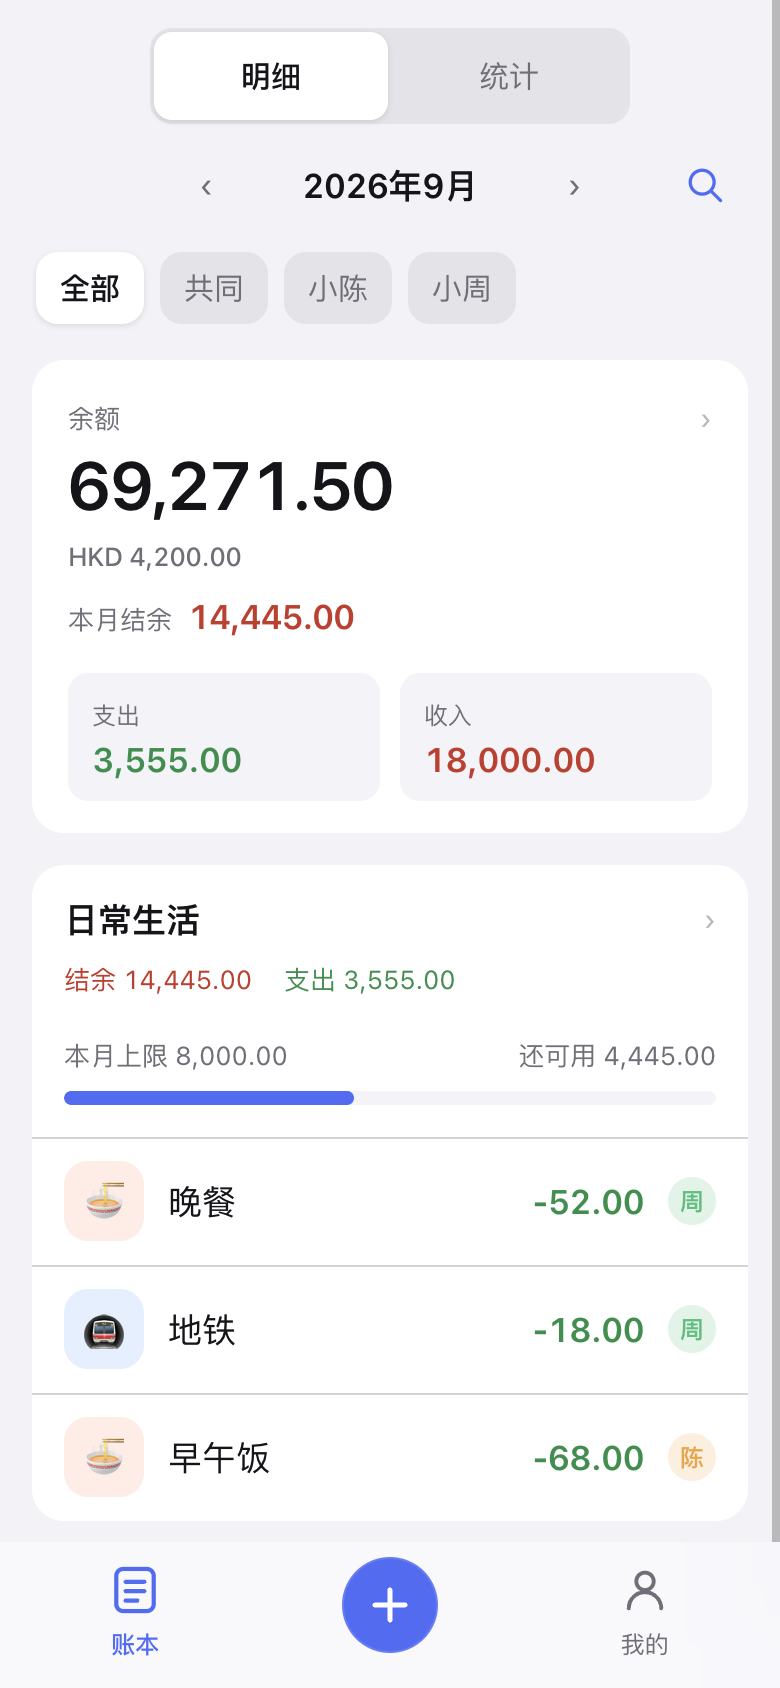
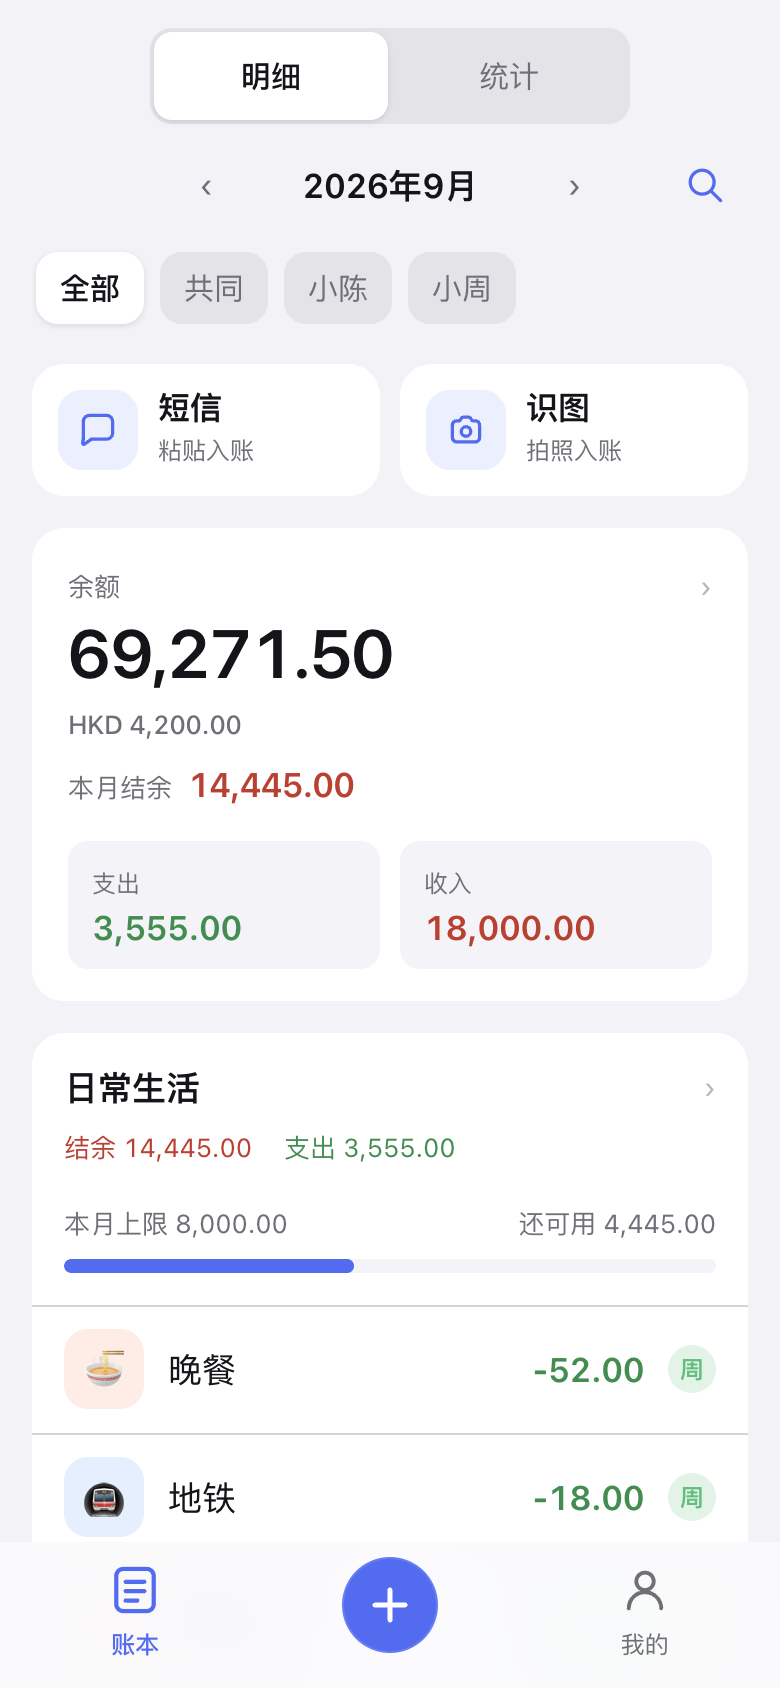
Rewrite the README as a page-by-page tour with add-to-home-screen.

diff --git a/README.md b/README.md
@@ -1,90 +1,94 @@
 # 记账
 
-- 多用户：一家人共用一份账目，每笔能看出是谁记的，也可以标成共同账。管理员负责成员和密码。
+一家人一本账。多用户、分类和活动都能改，银行卡按币种记，短信或照片也能自动入账。
+
+- 多用户：每笔能看出是谁记的，也可以记入共同账。管理员管成员和密码。
 - 灵活分类：分类可改图标、颜色、归档和顺序；支出和收入挂在活动上。
-- 支持多国银行卡：银行卡按币种记余额，支持银联、Visa、Mastercard、运通。
+- 支持多国银行卡：按币种记余额，银联、Visa、Mastercard、运通都能用。
+- AI 自动识别：粘贴银行短信或拍一张单，自动填好金额和分类。
 
-一个 Go 静态二进制，自带网页和 SQLite，监听一个端口就能跑。界面按手机浏览器设计，也可以加到主屏。页面不加载任何外部资源；不配置识别密钥时，完全离线也能用。
+界面按手机设计。页面不加载任何外部资源；不配识别密钥时，完全离线也能用。
 
-<p align="center">
-  <img src="docs/screenshots/ledger.png" alt="账本" width="46%">
-  <img src="docs/screenshots/stats.png" alt="统计" width="46%">
-</p>
-<p align="center">
-  <img src="docs/screenshots/entry.png" alt="记一笔" width="46%">
-  <img src="docs/screenshots/settings.png" alt="我的" width="46%">
-</p>
+## 界面
 
-## 本地运行
+账本首页是余额和这个月的活动。配了识别密钥后，上面还会出现短信和识图。
 
-需要 Go 1.27 以上。
+<p align="center"><img src="docs/screenshots/ledger.png" alt="账本" width="320"></p>
+
+银行短信可以贴进来自动入账，也可以拍照识图。
+
+<p align="center"><img src="docs/screenshots/sms.png" alt="短信识别" width="320"></p>
+
+点开余额，按币种看每张卡还剩多少。
+
+<p align="center"><img src="docs/screenshots/balances.png" alt="余额" width="320"></p>
+
+点开活动，能看结余、上限和最近几笔，点进去就能改。
+
+<p align="center"><img src="docs/screenshots/activity.png" alt="活动详情" width="320"></p>
+
+右上角可以按备注搜索全部时间的账。
+
+<p align="center"><img src="docs/screenshots/search.png" alt="搜索" width="320"></p>
+
+统计按账本、活动和时间筛选，有分类环和银行汇总。
+
+<p align="center"><img src="docs/screenshots/stats.png" alt="统计" width="320"></p>
+
+记一笔用自定义数字键盘。支出和收入挂活动，转账和兑换不算收支。
+
+<p align="center"><img src="docs/screenshots/entry.png" alt="记一笔" width="320"></p>
+
+「我的」里管自己、家庭成员，以及分类、银行卡和活动。
+
+<p align="center"><img src="docs/screenshots/settings.png" alt="我的" width="320"></p>
+
+分类可以改图标和颜色，也能拖顺序。
+
+<p align="center"><img src="docs/screenshots/categories.png" alt="分类管理" width="320"></p>
+
+银行卡按币种记余额。
+
+<p align="center"><img src="docs/screenshots/cards.png" alt="银行卡" width="320"></p>
+
+活动可以设每月上限和整个活动的上限。上限看全家支出，不按账本拆分。
+
+<p align="center"><img src="docs/screenshots/activities.png" alt="活动" width="320"></p>
+
+## 使用
+
+本机需要 Go 1.27。
 
 ```
-make demo         # 写入两名演示成员和几个月的模拟账单，然后启动
-make test         # go vet + go test
-make build-linux  # 交叉编译出 dist/ledger-linux-amd64
+make demo
 ```
 
-演示账本的登录是 `小陈` / `demodemo`，另一位成员是 `小周` / `demodemo`。空库启动用 `make run`，会按环境变量创建第一个管理员。
+会写入两名演示成员和几个月的模拟账单，然后启动。登录是 `小陈` / `demodemo`，另一位是 `小周` / `demodemo`。空库启动用 `make run`。
 
-## 它做什么
+演示默认不打开识别。自己跑的时候加上识别密钥，账本上就会出现「短信」和「识图」。
 
-- 底栏三个入口：账本、记一笔、我的。金额用自定义数字键盘。
-- 支出和收入挂在活动上，默认是「日常生活」；转账和兑换不算收支。
-- 两名以上成员时，可以记入共同账。共同是单独一本账，不拆给各人。
-- 账本首页是余额和本月有账单的活动；点开看结余和最近几笔，可以直接改。
-- 统计按账本、活动和时间（月 / 年 / 全部）筛选，有分类环、银行汇总和走势。
-- 银行卡按币种记余额，支持银联、Visa、Mastercard、运通；可以转账和手填兑换，不存汇率。
-- 活动可以设每月上限和活动上限。上限看全家支出，不按账本拆分。
-- 分类可改图标、颜色、归档和顺序。账目可导出 CSV。
+在 iPhone 上用 Safari 打开账本，点底部分享，再点「添加到主屏幕」。之后从桌面图标进去，没有浏览器地址栏，底栏就是账本和记一笔，少绕一层。
 
-## 配置
+## 自己跑
 
-全部通过环境变量设置。服务器上这些变量放在 `/etc/ledger/env`。
+一个 Go 程序，网页和 SQLite 都打在二进制里，监听一个端口就能用。配置都走环境变量，服务器上放在 `/etc/ledger/env`。
 
-| 变量 | 默认值 | 说明 |
+| 变量 | 默认 | 说明 |
 | --- | --- | --- |
 | `LEDGER_ADDR` | `:18080` | 监听地址 |
-| `LEDGER_DB` | `ledger.db` | SQLite 文件路径 |
-| `LEDGER_ADMIN_USER` | `admin` | 首个管理员的用户名 |
-| `LEDGER_ADMIN_PASSWORD` | 无 | 首个管理员的密码，至少 8 位 |
-| `LEDGER_SECRET` | 无 | 会话 cookie 的签名密钥，至少 16 个字符 |
-| `LEDGER_TLS_CERT` | 无 | HTTPS 证书路径 |
-| `LEDGER_TLS_KEY` | 无 | HTTPS 私钥路径 |
-| `LEDGER_DEEPSEEK_KEY` | 无 | DeepSeek API 密钥；留空则不出现识别入口 |
-| `LEDGER_DEEPSEEK_URL` | `https://api.deepseek.com` | DeepSeek API 地址 |
+| `LEDGER_DB` | `ledger.db` | SQLite 路径 |
+| `LEDGER_ADMIN_USER` | `admin` | 首个管理员 |
+| `LEDGER_ADMIN_PASSWORD` | 无 | 首个管理员密码，至少 8 位 |
+| `LEDGER_SECRET` | 无 | 会话签名密钥，至少 16 个字符 |
+| `LEDGER_TLS_CERT` / `LEDGER_TLS_KEY` | 无 | 成对填写才启用 HTTPS |
+| `LEDGER_DEEPSEEK_KEY` | 无 | 识别密钥；留空则不出现入口 |
+| `LEDGER_DEEPSEEK_URL` | `https://api.deepseek.com` | 识别接口地址 |
 
-`LEDGER_ADMIN_USER` 和 `LEDGER_ADMIN_PASSWORD` 只在库里还没有成员时使用。`LEDGER_SECRET` 留空会每次启动随机生成，登录状态会在重启后失效。证书成对填写才启用 HTTPS。
+用户名和密码只在库里还没有成员时用。密钥留空会每次随机，重启后要重新登录。识别密钥只留在服务器上，只有成员主动点「短信」或「识图」才会把这段内容发出去。
 
-识别密钥只留在服务器环境变量里。只有成员主动点「短信」或「识图」才会把这段内容发到 DeepSeek。
+放到服务器上，仓库里有 Debian 13 的安装脚本，以及从本机编译推送的脚本。配好 SSH 别名后，先跑一次 `deploy/server/provision.sh`，之后更新再跑 `deploy/deploy.sh your-server`。两个脚本都可以重复执行，安装脚本不会覆盖已有的配置、证书和数据库。
 
-## 部署
-
-`deploy/server/provision.sh` 把一台 Debian 13 机器收成能跑账本的样子；`deploy/deploy.sh` 从本机编译并推送。两个脚本都可以重复执行，provision 不会覆盖已有的 `/etc/ledger/env`、证书和数据库。
-
-先在 `~/.ssh/config` 里给服务器起个别名：
-
-```
-Host your-server
-    HostName 203.0.113.10
-    User root
-    IdentityFile ~/.ssh/id_ed25519
-    IdentitiesOnly yes
-```
-
-```
-scp -r deploy/server your-server:/root/
-ssh your-server 'bash /root/server/provision.sh --hostname your-server --public-ip 203.0.113.10 --admin-user 你的用户名'
-deploy/deploy.sh your-server
-```
-
-自签名证书第一次打开会提示警告。日常更新再跑一次 `deploy/deploy.sh your-server`。
-
-登录失败会写固定格式的日志，交给 fail2ban 封禁；程序自己还有一层 10 分钟 5 次的节流。
-
-## 备份
-
-数据在一个 SQLite 文件里。开了 WAL，复制前先停服务：
+数据在一个 SQLite 文件里。开了 WAL，复制前先停服务；也可以在「我的」里导出 CSV。
 
 ```
 systemctl stop ledger
@@ -92,7 +96,7 @@ cp /var/lib/ledger/ledger.db ~/ledger-$(date +%F).db
 systemctl start ledger
 ```
 
-也可以在「我的」里导出 CSV。
+`make test` 跑检查，`make build-linux` 交叉编译。
 
 ## 许可
 
